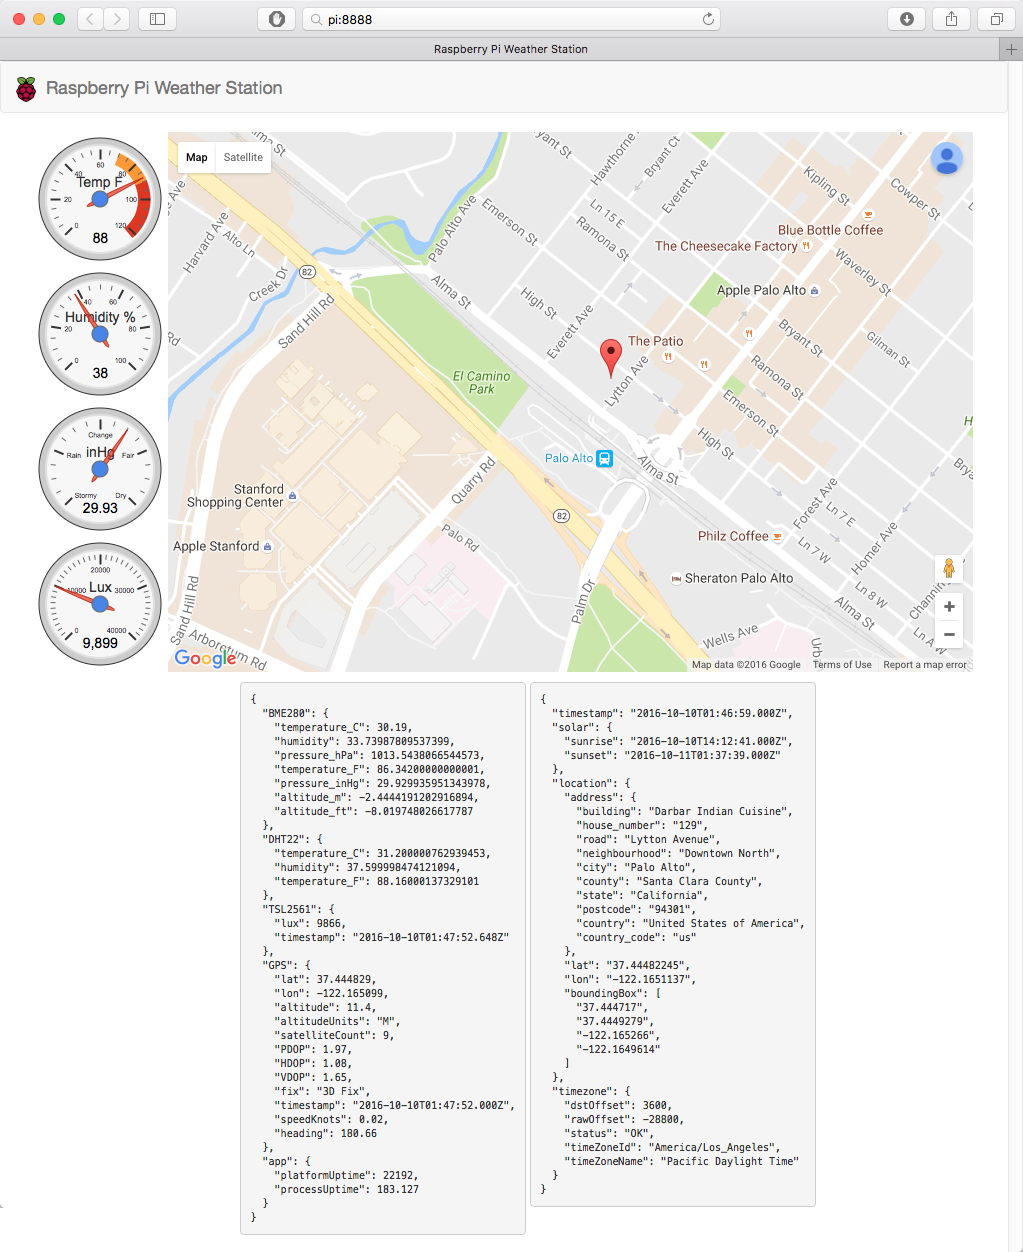
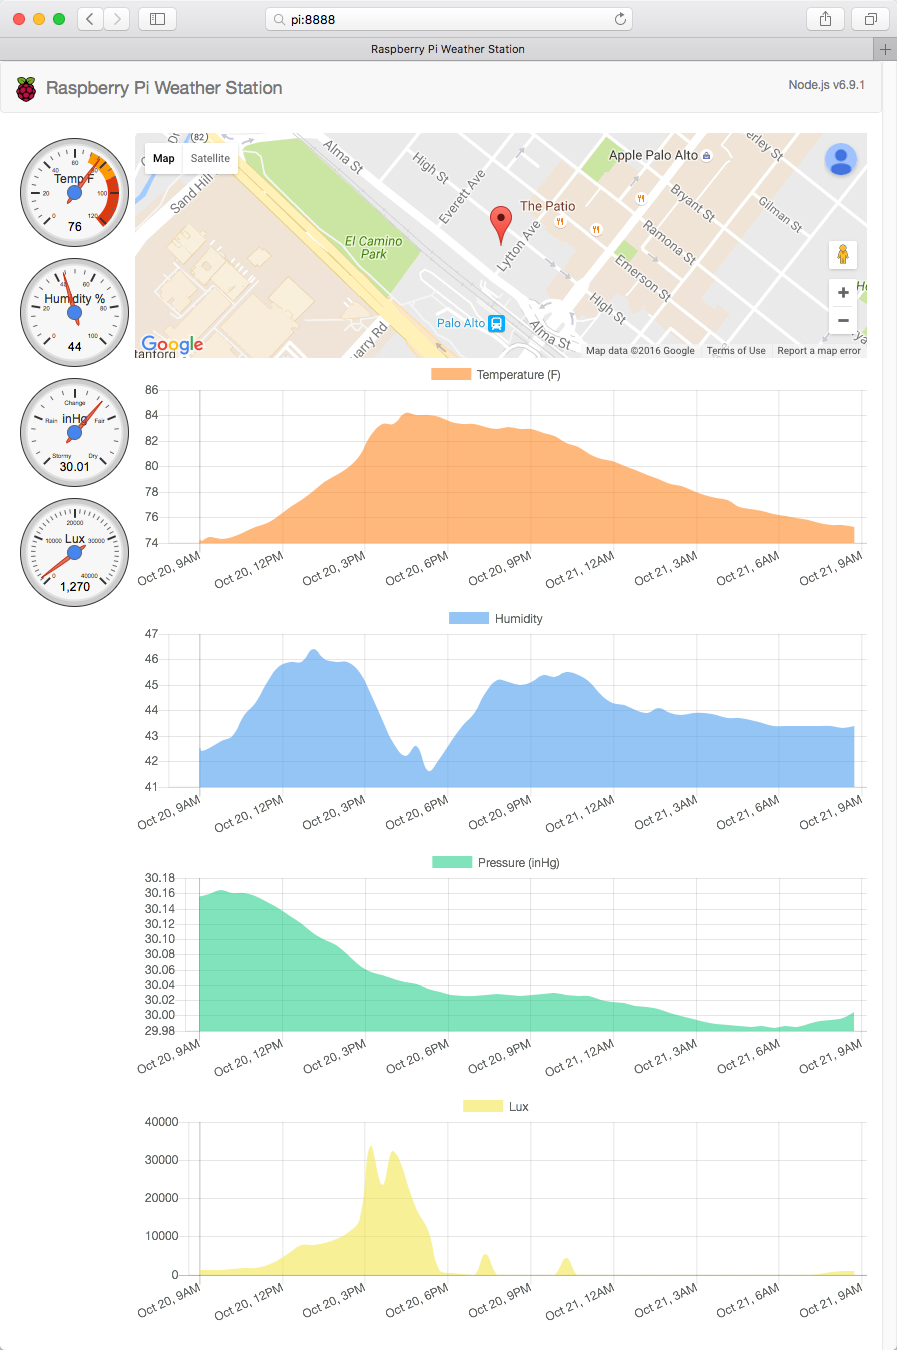
updated screenshot including sensor history charts

diff --git a/README.md b/README.md
@@ -6,7 +6,7 @@ Node.js spends so much of its time running inside virtualized instances, I figur
 
 A super basic front-end is served out of the /public directory with a few gauge controls for temperature, humidity, barometric pressure, and lux, as well as a map to display the current location. Raw data is included from all sensors.
 
-Next on the list, maybe a piezo buzzer for a startup sound, an LED for a heartbeat, graphs to display values over time, perhaps an integrated display or LCD. I imagine I'll just keep adding sensors/devices until I run out of room on the prototype board. Also, since the device knows its location, local weather forcasts could be queried from one of several sources.
+Next on the list, maybe a piezo buzzer for a startup sound, an LED for a heartbeat, perhaps an integrated display or LCD. I imagine I'll just keep adding sensors/devices until I run out of room on the prototype board. Also, since the device knows its location, local weather forecasts could be queried from one of several sources.
 
 [<img src="/docs/screenshot.png" width="250">](https://raw.githubusercontent.com/skylarstein/pi-weather-station/master/docs/screenshot.png)
 
